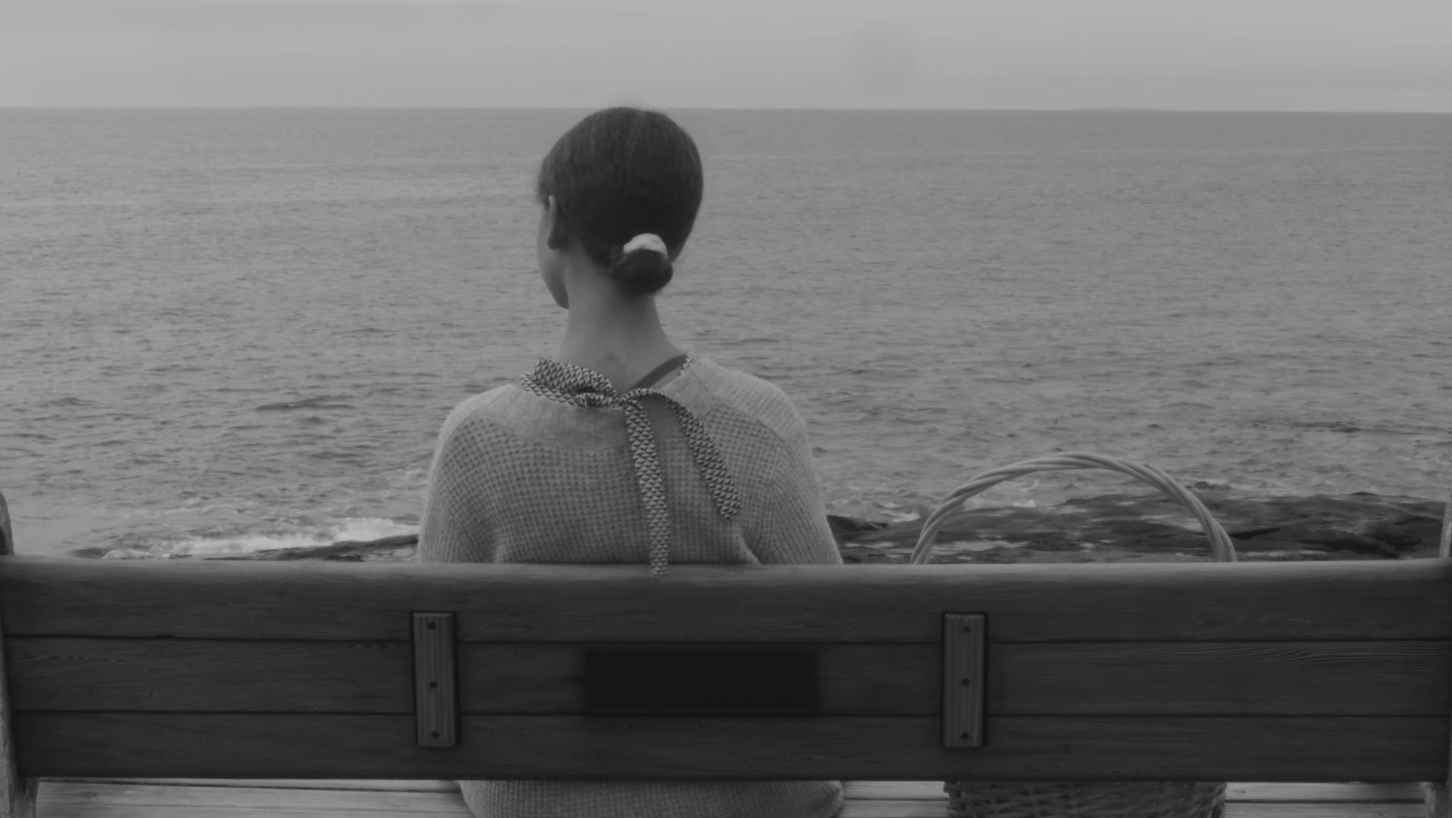
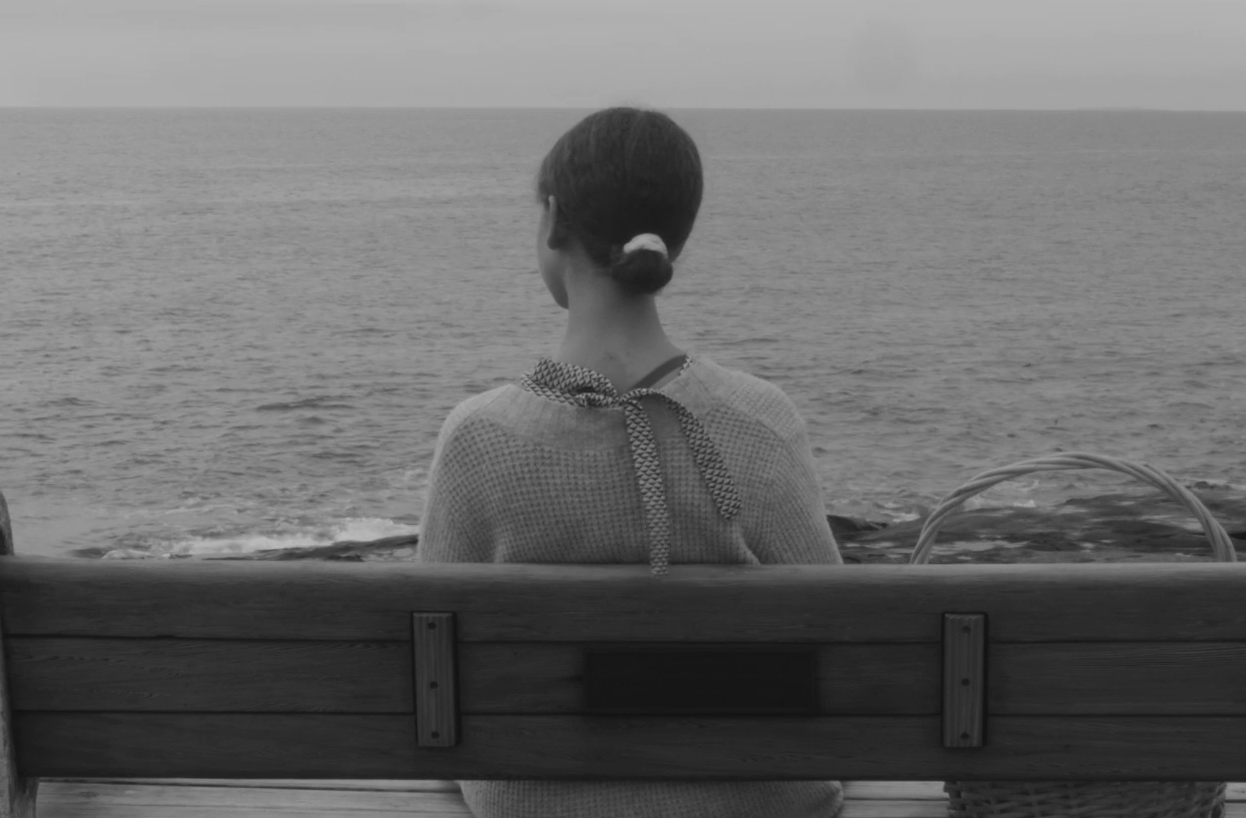
Phone size and image fix

diff --git a/index.html b/index.html
@@ -28,7 +28,7 @@
 			
 			<div class="project-item">
 				<div class="image">
-					<a href="film-video.html"><img src="images/film2.png" alt="Film and Video"></a>
+					<a href="film-video.html"><img class="imgclass" src="images/film2.png" alt="Film and Video"></a>
 				</div>
 				<div class="desc">
 					<a href="film-video.html" class="title title-gallery title-inset">Film/Video</a>
@@ -38,7 +38,7 @@
 			
 			<div class="project-item loaded">
 				<div class="image">
-					<a href="graphic-design.html"><img src="images/graphic-design.png" alt="Graphic Design"></a>
+					<a href="graphic-design.html"><img class="imgclass" src="images/graphic-design.png" alt="Graphic Design"></a>
 				</div>
 				<div class="desc">
 					<a href="graphic-design.html" class="title title-gallery title-inset">Graphic Design</a>
@@ -48,7 +48,7 @@
 			
 			<div class="project-item">
 				<div class="image">
-					<a href="prof-comm.html"><img src="images/prof-comm.png" alt="Professional Communications"></a>
+					<a href="prof-comm.html"><img class="imgclass" src="images/prof-comm.png" alt="Professional Communications"></a>
 				</div>
 				<div class="desc">
 					<a href="prof-comm.html" class="title title-gallery title-inset">Professional Communications</a>
@@ -58,7 +58,7 @@
 			
 			<div class="project-item">
 				<div class="image">
-					<a href="photography.html"><img src="images/photography2.png" alt="Photography"></a>
+					<a href="photography.html"><img class="imgclass" src="images/photography2.png" alt="Photography"></a>
 				</div>
 				<div class="desc">
 					<a href="photography.html" class="title title-gallery title-inset">Photography</a>
@@ -68,7 +68,7 @@
 			
 			<div class="project-item">
 				<div class="image">
-					<a href="theater.html"><img src="images/theater.png" alt="Theater"></a>
+					<a href="theater.html"><img class="imgclass" src="images/theater.png" alt="Theater"></a>
 				</div>
 				<div class="desc">
 					<a href="theater.html" class="title title-gallery title-inset">Theater</a>
@@ -78,7 +78,7 @@
 			
 			<div class="project-item">
 				<div class="image">
-					<a href="tech-theater.html"><img src="images/technical-theater.png" alt="Technical Theater"></a>
+					<a href="tech-theater.html"><img class="imgclass" src="images/technical-theater.png" alt="Technical Theater"></a>
 				</div>
 				<div class="desc">
 					<a href="tech-theater.html" class="title title-gallery title-inset">Technical Theater</a>

diff --git a/theater.html b/theater.html
@@ -1,6 +1,7 @@
 <html>
 	<head>
 		<meta charset = "utf-8">
+		<meta name="viewport" content="width=device-width, initial-scale=1">
 		<title>Theater</title>
 		<link rel="stylesheet" href="index.css">
 	</head>
@@ -40,7 +41,7 @@
 			
 			<div class="project-item">
 				<div class="image">
-					<a href="deadmad.html"><img class="img-link" src="images/theater/amado flower.jpg" alt="Arnado Flower"></a>
+					<a href="deadmad.html"><img class="imgclass" src="images/theater/amado flower.jpg" alt="Arnado Flower"></a>
 				</div>
 				<div class="desc">
 					<a href="deadmad.html"><div class="title title-gallery title-inset">Dead Mad</div></a>
@@ -52,7 +53,7 @@
 				
 			<div class="project-item">
 				<div class="image">
-					<a href="diviners.html"><img class="img-link" src="images/theater/LiamGriffinDanielHankin2.jpg" alt="Griffin"></a>
+					<a href="diviners.html"><img class="imgclass" src="images/theater/LiamGriffinDanielHankin2.jpg" alt="Griffin"></a>
 				</div>
 				<div class="desc">
 					<a href="diviners.html"><div class="title title-gallery title-inset">The Diviners</div></a>
@@ -64,12 +65,12 @@
 				
 			<div class="project-item">
 				<div class="images">
-					<a href="fringe.html"><img class="img-link" src="images/theater/curtain call.jpeg" alt="fringe"></a>
+					<a href="fringe.html"><img class="imgclass" src="images/theater/curtain call.jpeg" alt="fringe"></a>
 				</div>
 				<div class="desc">
-					<a href="theater-festivals.html"><div class="title title-gallery title-inset">Fringe Festival</div></a>
+					<a href="theater-festivals.html"><div class="title title-gallery title-inset">Theater Festivals</div></a>
 					<p class="desc">
-						Every three years Fitchburg State’s theater students perform at The Edinburgh Fringe Festival in Scotland. This annual festival is the largest arts festival in the world. Performers travel from all over the globe to perform here. Fitchburg State has performed seven shows in the festival between 2000 and 2018.
+						Fitchburg State’s theater students perform at different festivals. Here you can read more about the Edinburgh Fringe Festival and The Kennedy Center American College Theater Festival.
 					</p>
 				</div>
 			</div>

diff --git a/prof-comm.html b/prof-comm.html
@@ -1,6 +1,7 @@
 <html>
 	<head>
 		<meta charset = "utf-8">
+		<meta name="viewport" content="width=device-width, initial-scale=1">
 		<title>Professional Communications</title>
 		<link rel="stylesheet" href="index.css">
 	</head>
@@ -28,10 +29,10 @@
 			
 			<div class="project-item">
 				<div class="image">
-					<a href="fire-light.html"><img src="images/prof comm/fire-light.JPG" alt="Interior FX"></a>
+					<a href="fire-light.html"><img class="imgclass" src="images/prof comm/fire-light.JPG" alt="Interior FX"></a>
 				</div>
 				<div class="desc">
-					<a href="fire-light.html"  class="title title-gallery title-inset">Fire and Light Catalogue</a>
+					<a href="fire-light.html" class="title title-gallery title-inset">Fire and Light Catalogue</a>
 					<p class="desc">
 						An exhibition catalogue for Fire and Light at The Fitchburg Art Museum, designed by a student team.
 					</p>
@@ -40,7 +41,7 @@
 			
 			<div class="project-item">
 				<div class="image">
-					<a href="int-fx.html"><img src="images/prof comm/int-fx.JPG" alt="Interior FX"></a>
+					<a href="int-fx.html"><img class="imgclass" src="images/prof comm/int-fx.JPG" alt="Interior FX"></a>
 				</div>
 				<div class="desc">
 					<a href="int-fx.html"  class="title title-gallery title-inset">Interior Effects Catalogue</a>
@@ -52,7 +53,7 @@
 			
 			<div class="project-item">
 				<div class="image">
-					<a href="landho.html"><img src="images/prof comm/LandHo.JPEG" alt="Land Ho"></a>
+					<a href="landho.html"><img class="imgclass" src="images/prof comm/LandHo.JPEG" alt="Land Ho"></a>
 				</div>
 				<div class="desc">
 					<a href="landho.html" class="title title-gallery title-inset">Land Ho Catalogue</a>
@@ -64,7 +65,7 @@
 			
 			<div class="project-item">
 				<div class="image">
-					<a href="nsac.html"><img src="images/prof comm/NSAC award.jpeg" alt="Award"></a>
+					<a href="nsac.html"><img class="imgclass" src="images/prof comm/NSAC award.jpeg" alt="Award"></a>
 				</div>
 				<div class="desc">
 					<a href="nsac.html" class="title title-gallery title-inset">NSAC</a>

diff --git a/nsac.html b/nsac.html
@@ -1,6 +1,7 @@
 <html>
 	<head>
 		<meta charset = "utf-8">
+		<meta name="viewport" content="width=device-width, initial-scale=1">
 		<title>NSAC</title>
 		<link rel="stylesheet" href="index.css">
 	</head>
@@ -30,7 +31,7 @@
 			</div>
 			<div class="project-item">
 					<div class="image">
-						<a href="nsac1.html"><img src="images/film/nsac1.png" alt="NSAC 1"></a>
+						<a href="nsac1.html"><img class="imgclass" src="images/film/nsac1.png" alt="NSAC 1"></a>
 					</div>
 					<div class="desc">
 						<a href="nsac1.html"  class="title title-gallery title-inset">Fitchburg State NSAC Video 1</a>
@@ -41,7 +42,7 @@
 				</div>
 				<div class="project-item">
 					<div class="image">
-						<a href="nsac2.html"><img src="images/film/nsac2.png" alt="NSAC 2"></a>
+						<a href="nsac2.html"><img class="imgclass" src="images/film/nsac2.png" alt="NSAC 2"></a>
 					</div>
 					<div class="desc">
 						<a href="nsac2.html"  class="title title-gallery title-inset">Fitchburg State NSAC Video 2</a>

diff --git a/film-video.html b/film-video.html
@@ -28,7 +28,7 @@
 			
 			<div class="project-item">
 				<div class="image">
-					<a href="proj-puffin.html"><img src="images/film/proj-puffin.jpg"></a>
+					<a href="proj-puffin.html"><img class="imgclass" src="images/film/proj-puffin.jpg"></a>
 				</div>
 				<div class="desc">
 					<a href="proj-puffin.html"  class="title title-gallery title-inset">Project Puffin</a>

diff --git a/index.css b/index.css
@@ -313,10 +313,6 @@ footer a:hover,footer a:active{
 	width:100%;
 }
 
-.img-link{
-	max-width:100%;
-}
-
 .pic-name{
 	
 	display:block;
@@ -452,8 +448,8 @@ footer a:hover,footer a:active{
 }
 
 .imgclass{
-	height:300px;
-	width:550px;
+	height:350px;
+	
 }
 
 .project-item .image{

diff --git a/proj-puffin.html b/proj-puffin.html
@@ -1,6 +1,7 @@
 <html>
 	<head>
 		<meta charset = "utf-8">
+		<meta name="viewport" content="width=device-width, initial-scale=1">
 		<title>Project Puffin</title>
 		<link rel="stylesheet" href="reference.css">
 		<link rel="stylesheet" href="index.css">

diff --git a/landho.html b/landho.html
@@ -1,6 +1,7 @@
 <html>
 	<head>
 		<meta charset = "utf-8">
+		<meta name="viewport" content="width=device-width, initial-scale=1">
 		<title>Land Ho</title>
 		<link rel="stylesheet" href="reference.css">
 		<link rel="stylesheet" href="index.css">

diff --git a/praying-for-change.html b/praying-for-change.html
@@ -1,6 +1,7 @@
 <html>
 	<head>
 		<meta charset = "utf-8">
+		<meta name="viewport" content="width=device-width, initial-scale=1">
 		<title>Praying For Change</title>
 		<link rel="stylesheet" href="reference.css">
 	</head>

diff --git a/sleeping-together.html b/sleeping-together.html
@@ -1,6 +1,7 @@
 <html>
 	<head>
 		<meta charset = "utf-8">
+		<meta name="viewport" content="width=device-width, initial-scale=1">
 		<title>Sleeping Together</title>
 		<link rel="stylesheet" href="reference.css">
 	</head>

diff --git a/wol.html b/wol.html
@@ -1,6 +1,7 @@
 <html>
 	<head>
 		<meta charset = "utf-8">
+		<meta name="viewport" content="width=device-width, initial-scale=1">
 		<title>Women of Lockerbie</title>
 		<link rel="stylesheet" href="index.css">
 	</head>

diff --git a/tech-theater.html b/tech-theater.html
@@ -1,6 +1,7 @@
 <html>
 	<head>
 		<meta charset = "utf-8">
+		<meta name="viewport" content="width=device-width, initial-scale=1">
 		<title>Technical Theater</title>
 		<link rel="stylesheet" href="index.css">
 	</head>
